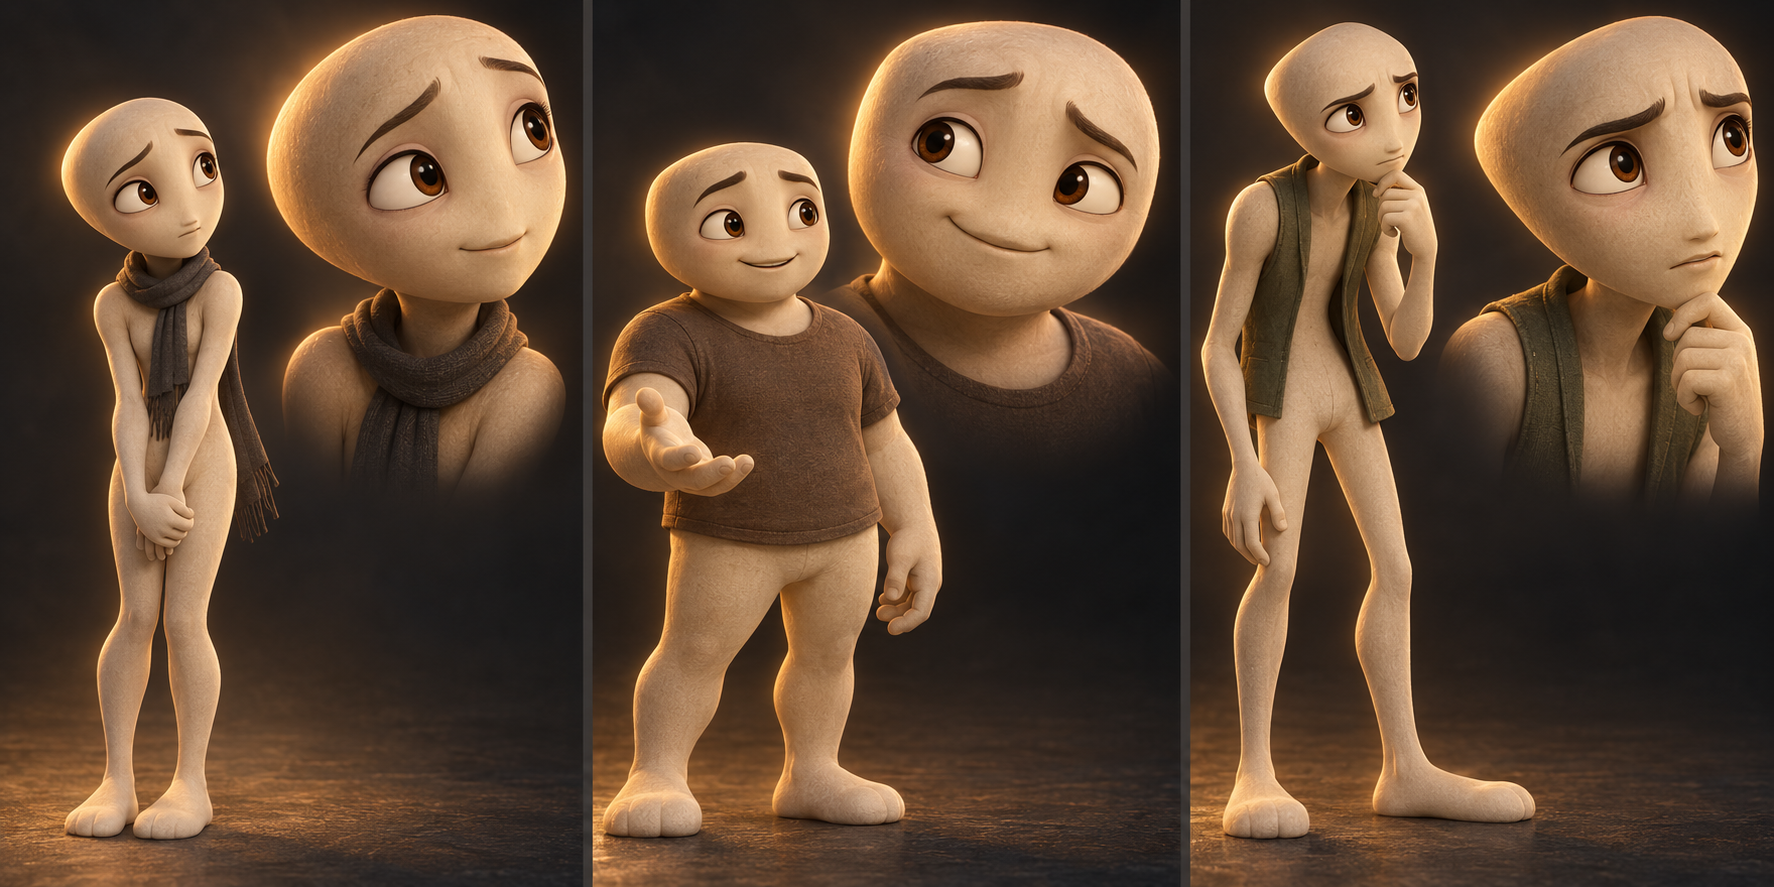
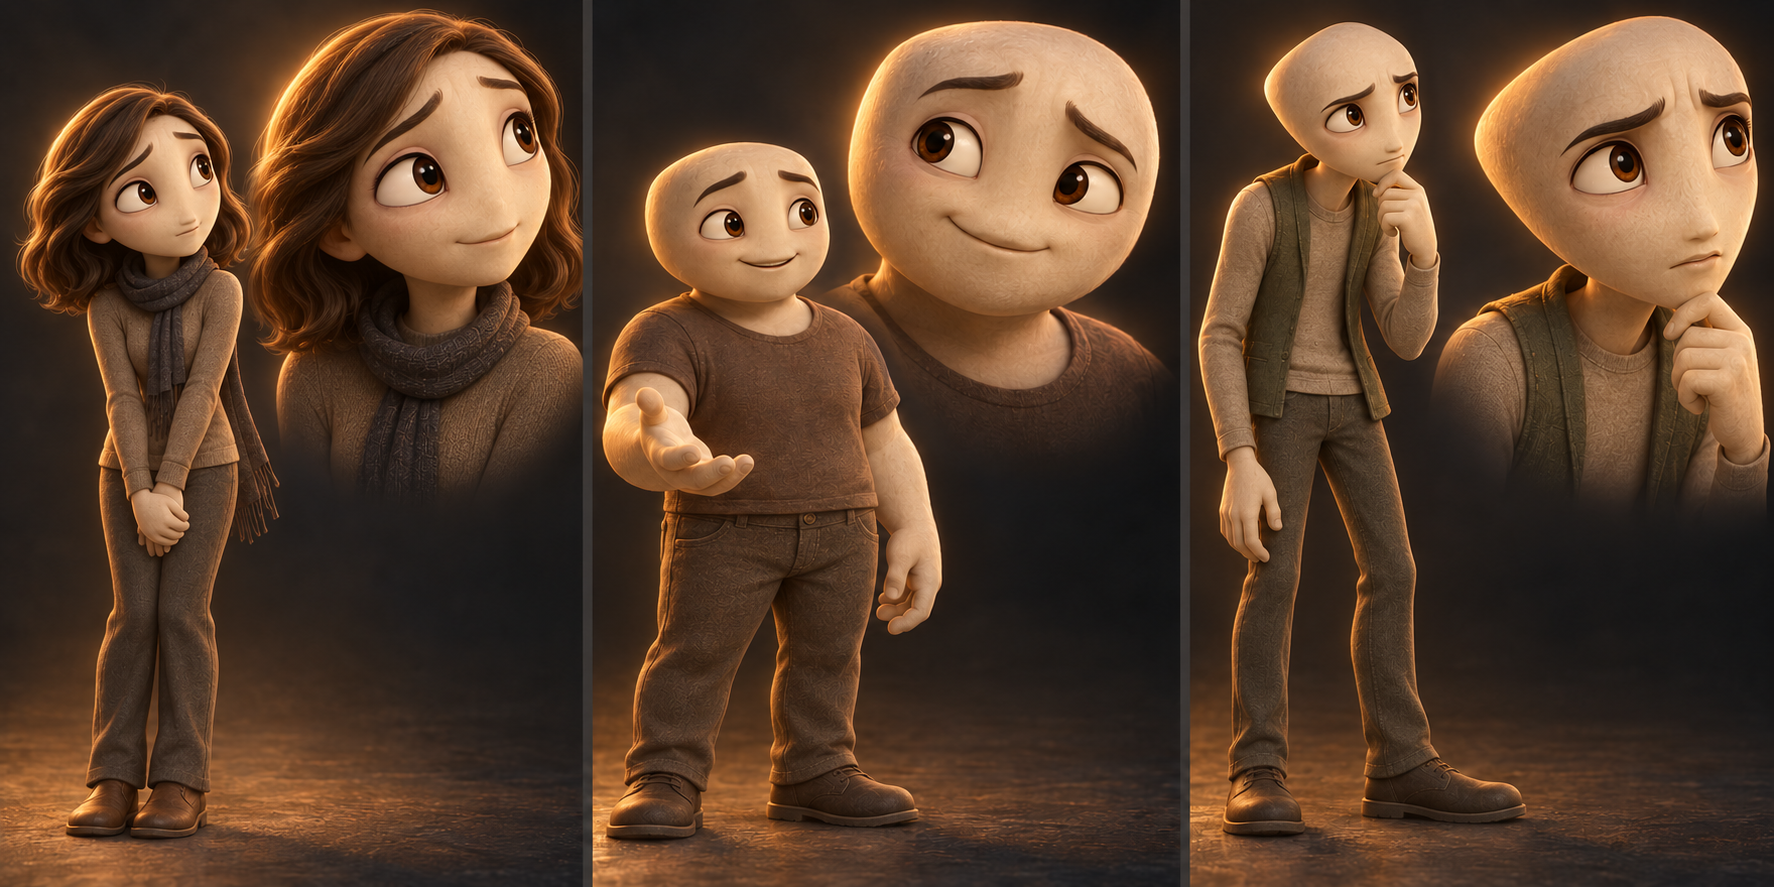
Name the cast and update hair and full clothing across concepts and thumbnail

diff --git a/designs/day-one-pivot/README.md b/designs/day-one-pivot/README.md
@@ -27,14 +27,18 @@ accessories and staging.
 
 ## Three-character design brief
 
-| Internal ID | Shape and identity | Acting range | Palette |
+| Name / internal ID | Shape and identity | Acting range | Palette |
 | --- | --- | --- | --- |
-| observer | Slim body, rounded oval head, charcoal scarf, inward resting silhouette | Searching eyes, hesitation, retreat, small hopeful smiles | Warm ivory, sand, charcoal |
-| companion | Compact, broader body, rounded head, muted umber shirt, open hands | Reassurance, humor when requested, frustration, guarded warmth | Oatmeal, stone, umber |
-| thinker | Taller narrow body, tapered rounded head, muted olive vest | Restlessness, doubt, concentration, resolve | Ivory, warm gray, dull olive |
+| Maya / observer | Female; slim body, rounded oval head, chestnut wavy bob, charcoal scarf, taupe long-sleeve top, full trousers and closed shoes | Searching eyes, hesitation, retreat, small hopeful smiles | Warm ivory, sand, charcoal |
+| Leo / companion | Male; compact broader body, rounded head, muted umber T-shirt, full trousers and closed shoes, open hands | Reassurance, humor when requested, frustration, guarded warmth | Oatmeal, stone, umber |
+| Max / thinker | Male; taller narrow body, tapered rounded head, muted olive vest over a taupe long-sleeve top, full trousers and closed shoes | Restlessness, doubt, concentration, resolve | Ivory, warm gray, dull olive |
 
 These are flexible cast designs, not mandatory personality roles or plot beats.
-No names are printed on the images or added as video nameplates. Existing voice
+All clothing uses the middle character’s muted matte tactile T-shirt fabric as
+the material guide. All three are fully dressed, including full-length trousers
+and closed shoes. Maya has hair in both her board views and the matching
+thumbnail. Names identify the cast in project data and documentation; no names
+are printed on the images or added as video nameplates. Existing voice
 choices remain available; a visual character must not require a fixed voice or
 three speakers in every film.
 

diff --git a/docs/PROJECT_CONTEXT.md b/docs/PROJECT_CONTEXT.md
@@ -11,6 +11,11 @@ original 3D character designs FIRST. See `designs/day-one-pivot/` for the actual
 concept board, original thumbnail proof and replacement production brief.
 The references use simplified 2D film animation and more detailed illustrated
 thumbnails; the concepts interpret their palette and emotion in requested 3D.
+The cast is now named Maya (female, left, chestnut wavy hair), Leo (male,
+center) and Max (male, right). All three wear complete outfits with trousers
+and shoes; muted tactile cloth follows Leo’s T-shirt. The thumbnail has been
+updated to show Maya’s hair and covered arms, retaining its approved layout.
+Names are project identities, not automatic on-screen labels.
 These are generated concept images, not rigged models or a completed renderer.
 The current Actions generator remains the legacy pipeline until a replacement
 Blender animation proof is built and qualified. Silent scenes, original music
